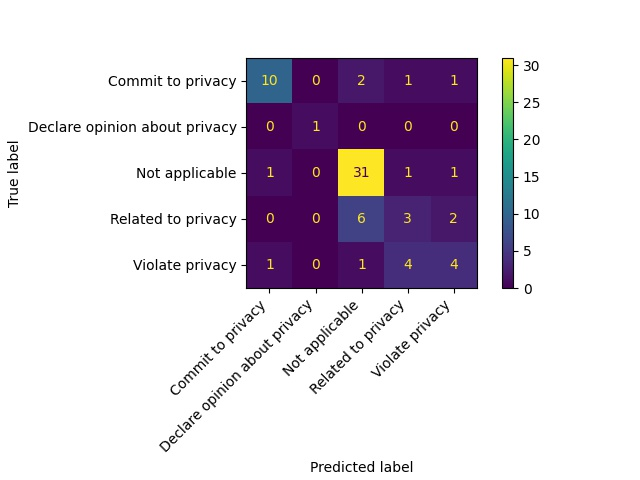
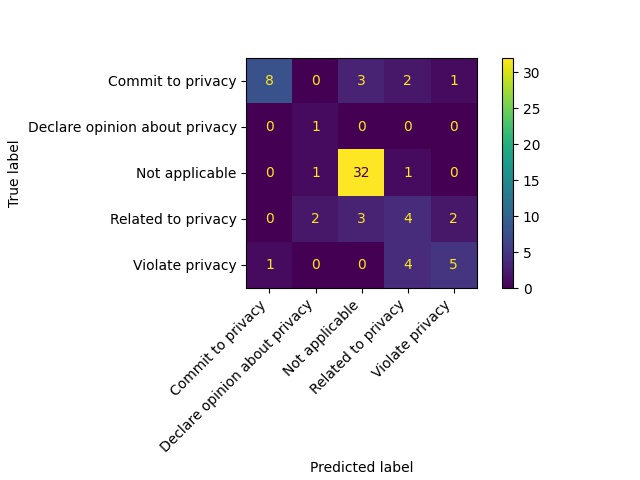
svc test set one vs rest  c 1

diff --git a/AIclassifier.py b/AIclassifier.py
@@ -239,8 +239,8 @@ test_labels_primary = create_labels_array(labels_test)
 # RIDGE REGRESSION CLASSIFIER
 #ridge_classifier = RidgeClassifier()
 #sgd_classifier = make_pipeline(StandardScaler(),SGDClassifier(max_iter=1000, tol=1e-3))#, random_state=1111111))
-svc_classifier = make_pipeline(StandardScaler(), OneVsRestClassifier(LinearSVC(dual=False,random_state=None, tol=1e-5, C=0.05)))
-#svc_classifier = make_pipeline(StandardScaler(), OneVsOneClassifier(LinearSVC(dual=False,random_state=None, tol=1e-5, C=0.05)))
+#svc_classifier = make_pipeline(StandardScaler(), OneVsRestClassifier(LinearSVC(dual=False,random_state=None, tol=1e-5, C=0.05)))
+svc_classifier = make_pipeline(StandardScaler(), OneVsOneClassifier(LinearSVC(dual=False,random_state=None, tol=1e-5, C=1)))
 
 # FLAG - CHECK WHICH CONFIGURATIONS SHOULD BE HERE - checked
 
